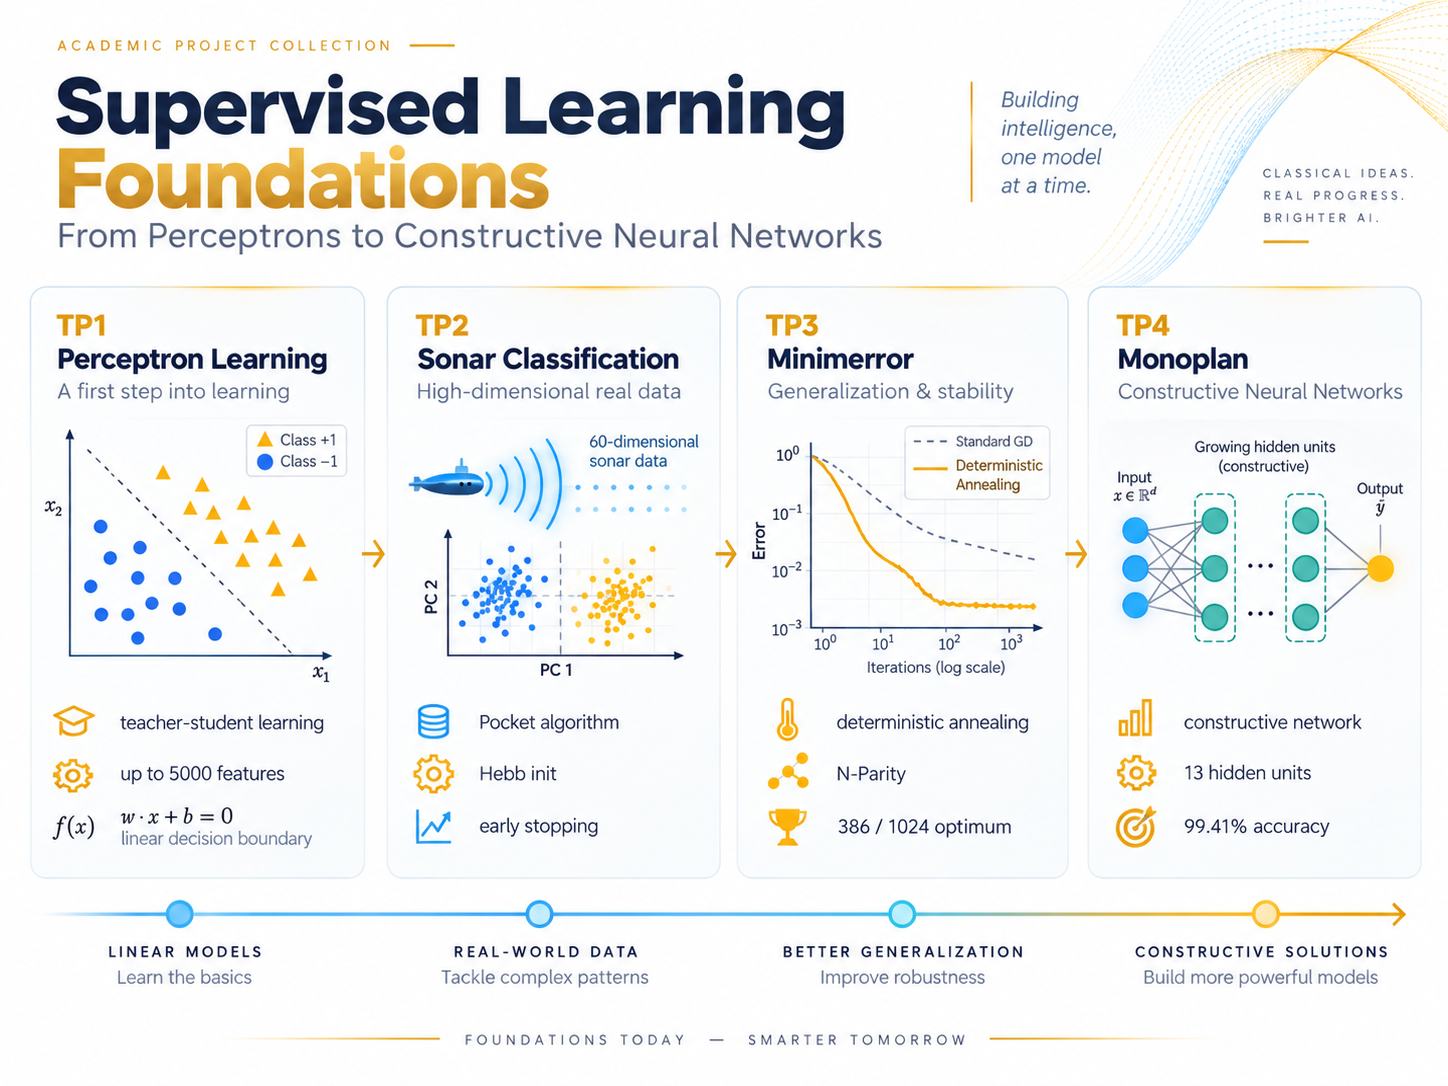
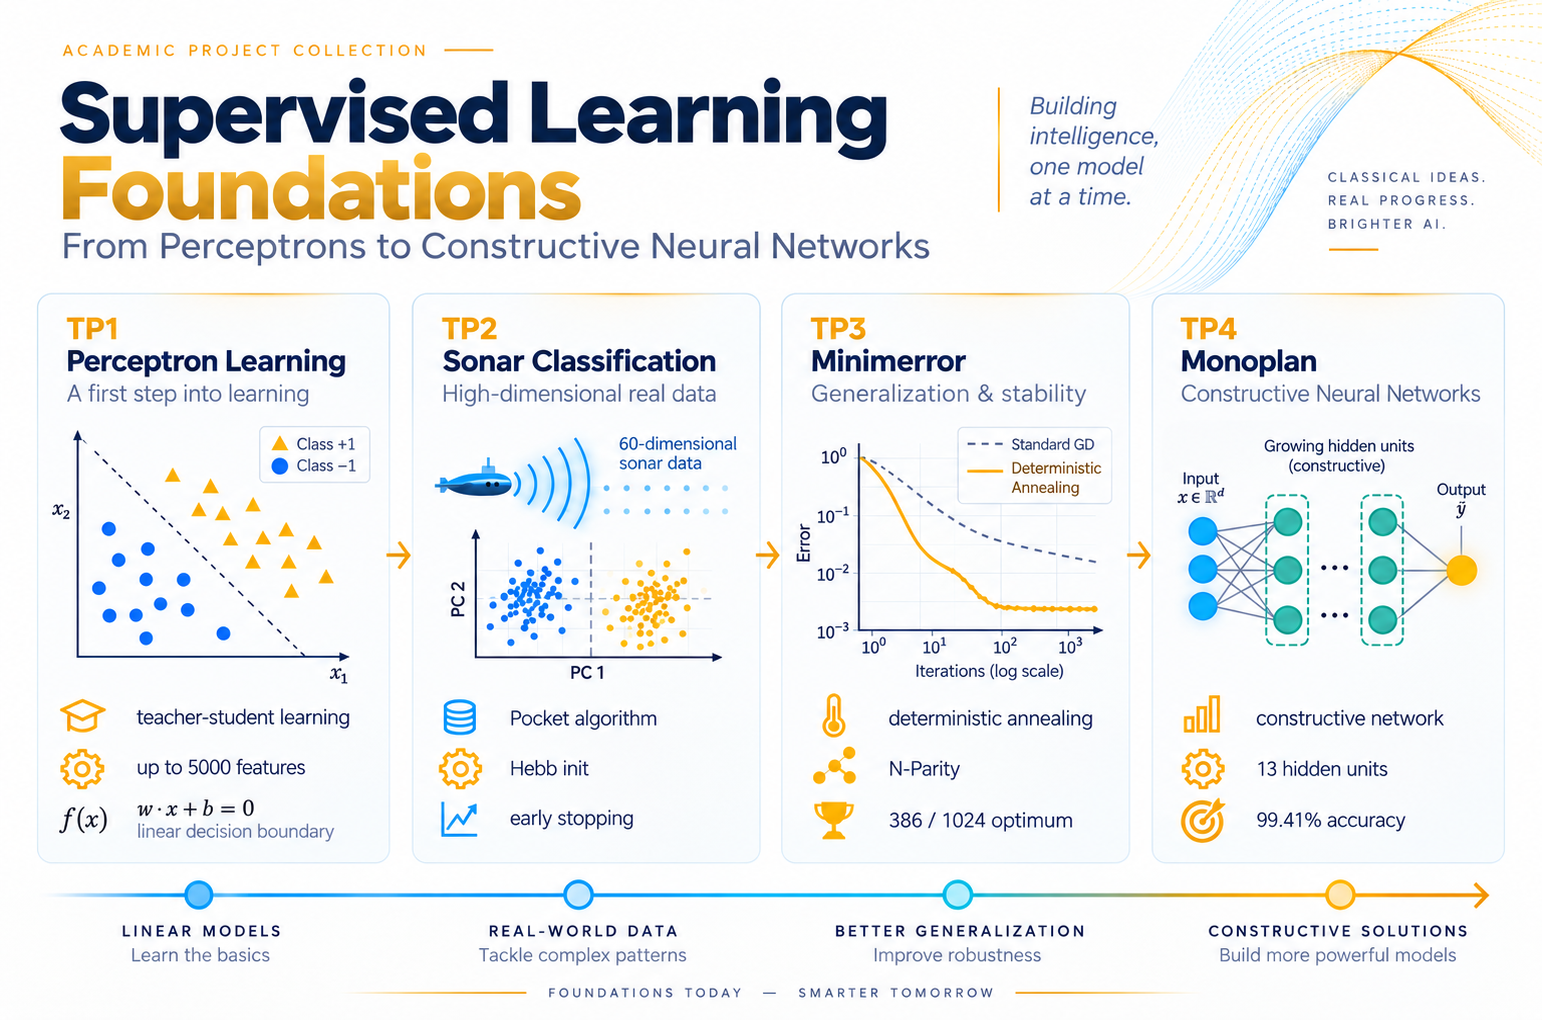
Update portfolio: picture rx, projects addition

Changed region(s): [[0.0311, 0.0304, 0.9945, 1.0], [0.6526, 0.0, 1.0, 0.6686]]

diff --git a/index.html b/index.html
@@ -130,7 +130,6 @@
             <div class="contact-info">
               <p class="contact-title">Location</p>
               <address>Paris, France</address>
-              <address>Avignon, France</address>
             </div>
           </li>
 
@@ -336,29 +335,56 @@
           <ol class="timeline-list">
 
             <li class="timeline-item">
-              <h4 class="h4 timeline-item-title">Centre for Education and Research in Computer Science (CERI)</h4>
-              <span>9/2025 — Present</span>
+              <h4 class="h4 timeline-item-title">
+                ENS Paris-Saclay
+              </h4>
+              <span>09/2026 — Present</span>
               <p class="timeline-text">
-                <strong>Master's degree, CS with specialization in AI</strong><br>
-                Concentration: Advanced Artificial Intelligence, Intelligent Systems, Data Science, Optimization & Decision Support, Ethics and Societal Impacts of AI | Avignon University Mistral Scholar
+                <strong>Master 2: Mathematics, Vision, Learning (MVA)</strong><br>
+                Track: Industry & Engineering |
+                Advanced Machine Learning, Artificial Intelligence, Statistical Learning,
+                Optimization and Applied AI
               </p>
             </li>
 
             <li class="timeline-item">
-              <h4 class="h4 timeline-item-title">Multinational Higher School of Telecommunications (ESMT)</h4>
-              <span>10/2021 — 10/2024</span>
+              <h4 class="h4 timeline-item-title">
+                Avignon Université — CERI
+              </h4>
+              <span>09/2025 — 06/2026</span>
               <p class="timeline-text">
-                <strong>MSc. in Telecommunication Engineering, Specialized in Data Engineering and AI</strong><br>
-                Concentration: Machine & Deep Learning, Big Data, Telecom infrastructures, Data Analytics | GPA: 3.9 / 4.0
+                <strong>Master 1 in Computer Science: Artificial Intelligence</strong><br>
+                Coursework: Supervised & Unsupervised Learning, Symbolic and Neural AI,
+                Stochastic Models, Optimization, Explainable AI and NLP |
+                Final average: 15.25/20 |
+                Top-ranked student |
+                Mistral Excellence Scholarship
               </p>
             </li>
 
             <li class="timeline-item">
-              <h4 class="h4 timeline-item-title">Multinational Higher School of Telecommunications (ESMT)</h4>
-              <span>10/2018 — 08/2021</span>
+              <h4 class="h4 timeline-item-title">
+                Multinational Higher School of Telecommunications (ESMT), Dakar
+              </h4>
+              <span>10/2020 — 10/2023</span>
               <p class="timeline-text">
-                <strong>B.Eng.Sc.</strong><br>
-                Concentration: Applied Mathematics, Statistics, Computer Science (Algorithms, Data Structures) | Burkina Faso Gov. Scholarship scholar | GPA: 3.7 / 4.0
+                <strong>Engineering Degree in Computer Science, Data Engineering & Artificial Intelligence</strong><br>
+                Coursework: Machine Learning, Deep Learning, Big Data, Data Engineering, NLP, Statistics and Software Engineering |
+                Graduated Valedictorian — Rank 1/13 |
+                Final average: 16.59/20
+              </p>
+            </li>
+
+            <li class="timeline-item">
+              <h4 class="h4 timeline-item-title">
+                Multinational Higher School of Telecommunications (ESMT), Dakar
+              </h4>
+              <span>10/2018 — 07/2020</span>
+              <p class="timeline-text">
+                <strong>Higher Technician Diploma in Telecommunications</strong><br>
+                Foundations in Telecommunications, Computer Science,
+                Applied Mathematics, Electronics and Networks |
+                Final average: 17.92/20
               </p>
             </li>
 
@@ -378,7 +404,7 @@
 
             <li class="timeline-item">
               <h4 class="h4 timeline-item-title">Digital & Roaming Assistant</h4>
-              <span>12/2024 — Present</span>
+              <span>12/2024 — 05/2025</span>
               <p class="timeline-text">
                 <strong>Orange Burkina Faso | Ouagadougou</strong><br>
                 • Managed and optimized the “Max it” application, enhancing user engagement and app performance.<br>
@@ -559,6 +585,51 @@
                 </p>
               </a>
             </li>
+
+            <li class="project-item active" data-filter-item data-category="academic">
+              <a href="https://github.com/steve-sanogo/protein-secondary-structure-q3" target="_blank">
+                <figure class="project-img">
+                  <div class="project-item-icon-box">
+                    <ion-icon name="logo-github"></ion-icon>
+                  </div>
+
+                  <img src="./assets/images/protein-secondary-structure-q3.png"  alt="Protein Secondary Structure Prediction"
+                    loading="lazy" >
+                </figure>
+
+                <h3 class="project-title">
+                  Protein Secondary Structure Prediction
+                </h3>
+
+                <p class="project-category">
+                  Academic | Bioinformatics, PyTorch, MLP & Bi-LSTM
+                </p>
+              </a>
+            </li>
+
+          <li class="project-item active" data-filter-item data-category="academic">
+            <a href="https://github.com/steve-sanogo/hotel-review-rating-classification" target="_blank">
+              <figure class="project-img">
+                <div class="project-item-icon-box">
+                  <ion-icon name="logo-github"></ion-icon>
+                </div>
+
+                <img
+                  src="./assets/images/hotel-review-rating-classification.png"
+                  alt="Hotel Review Rating Classification"
+                  loading="lazy"
+                >
+              </figure>
+
+              <h3 class="project-title">
+                Hotel Review Rating Classification
+              </h3>
+
+              <p class="project-category">
+                Academic | NLP, BERT, DistilBERT & PyTorch
+              </p>
+            </a>
+          </li>
 
             <li class="project-item active" data-filter-item data-category="academic">
               <a href="https://github.com/steve-sanogo/FakeNewsDetection" target="_blank">
